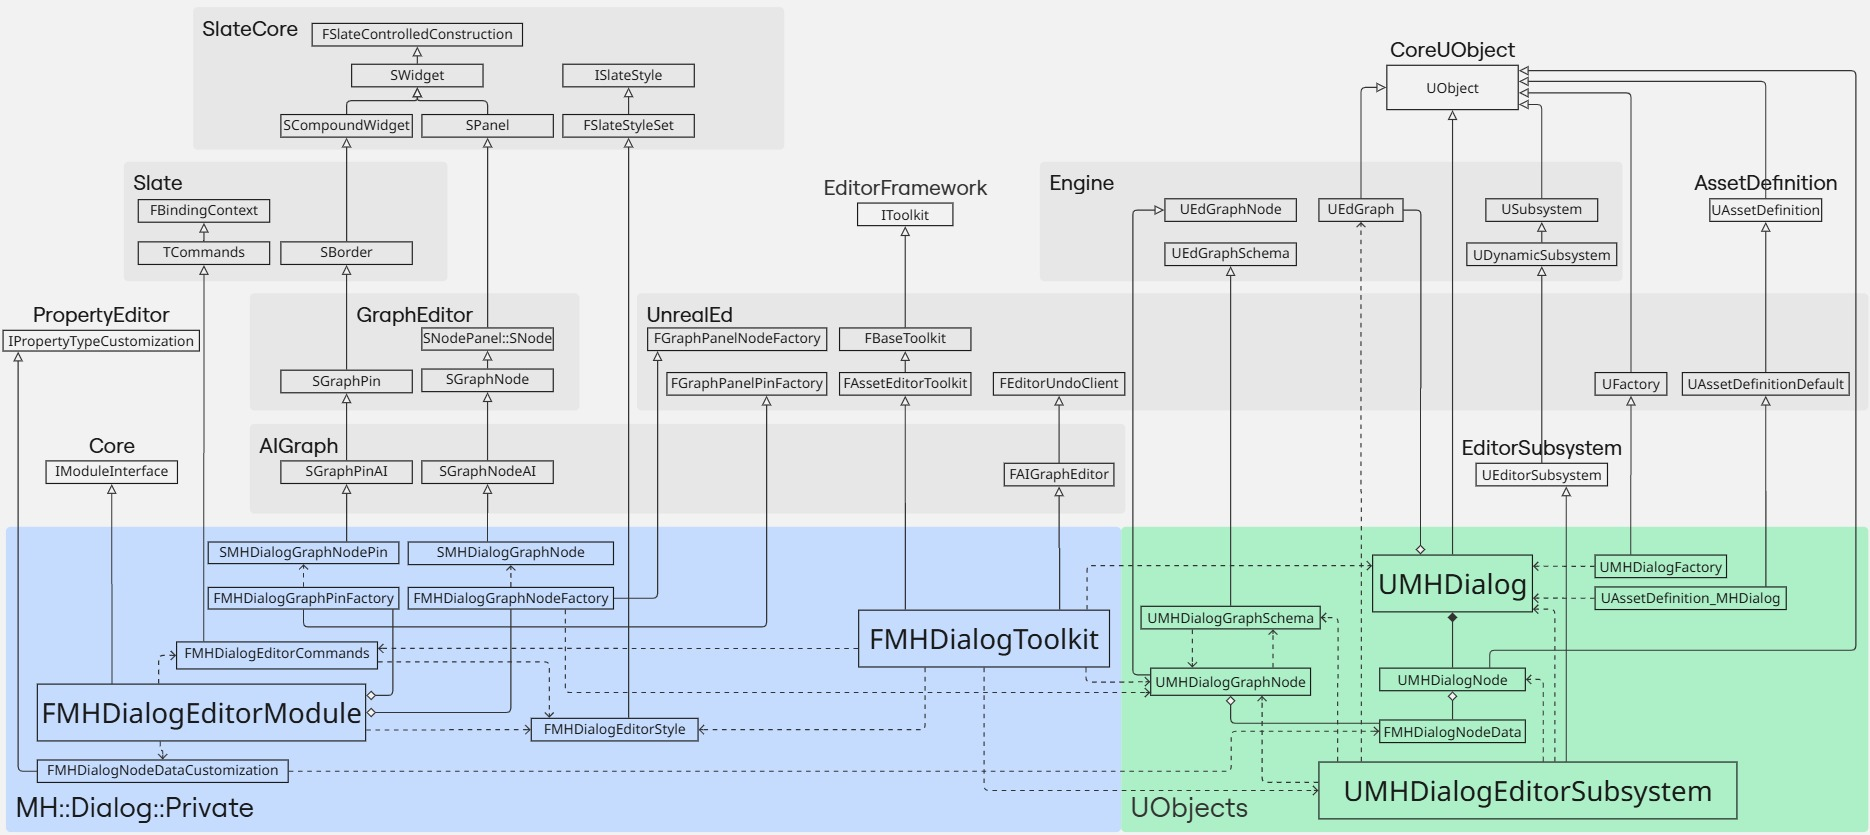
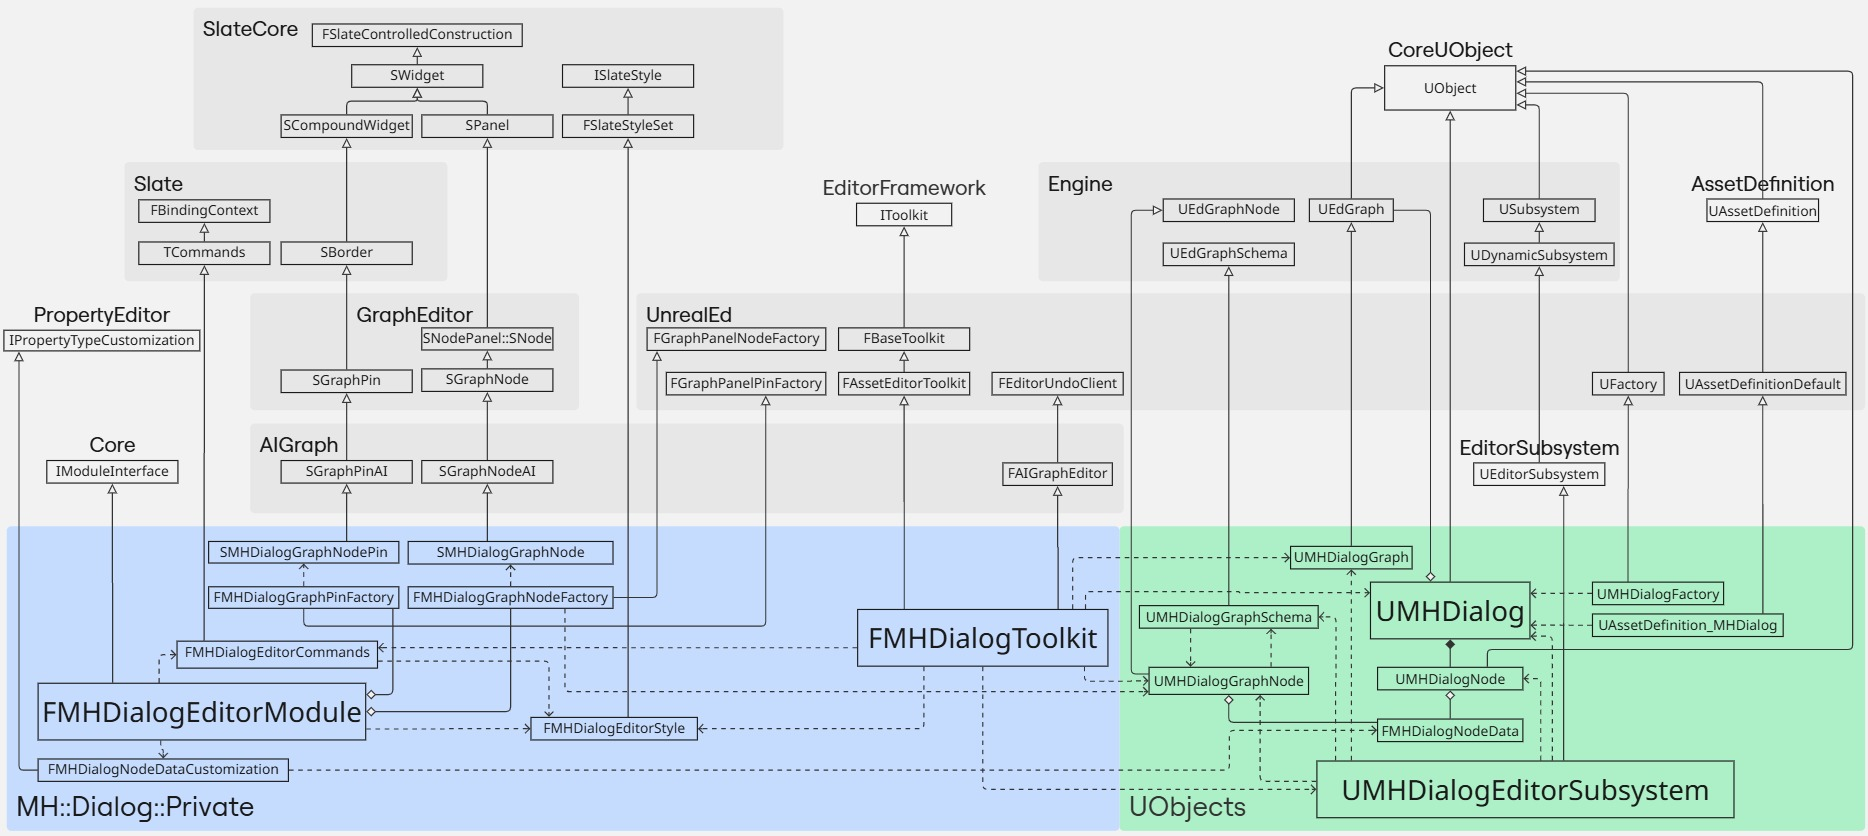
lock the graph for notifications when adding a new node

diff --git a/Source/MHDialogEditor/Private/Toolkit/MHDialogToolkit.cpp b/Source/MHDialogEditor/Private/Toolkit/MHDialogToolkit.cpp
@@ -2,6 +2,7 @@
 
 #include "Toolkit/MHDialogToolkit.h"
 
+#include "Graph/MHDialogGraph.h"
 #include "Graph/MHDialogGraphNode.h"
 #include "MHDialog.h"
 #include "MHDialogEditorColors.h"
@@ -43,13 +44,14 @@ void FMHDialogToolkit::InitDialogEditor(const EToolkitMode::Type Mode,
 										const TSharedPtr<class IToolkitHost>& InitToolkitHost,
 										UMHDialog* Dialog)
 {
+	check(IsValid(Dialog));
 	DialogAsset = Dialog;
-	check(IsValid(DialogAsset));
 
 	GEditor->GetEditorSubsystem<UMHDialogEditorSubsystem>()->InitAsset(DialogAsset);
+	DialogGraph			 = CastChecked<UMHDialogGraph>(DialogAsset->Graph);
 
 	auto Delegate		 = FOnGraphChanged::FDelegate::CreateSP(this, &FMHDialogToolkit::OnGraphUpdated);
-	OnGraphUpdatedHandle = DialogAsset->Graph->AddOnGraphChangedHandler(MoveTemp(Delegate));
+	OnGraphUpdatedHandle = DialogGraph->AddOnGraphChangedHandler(MoveTemp(Delegate));
 
 	CreateWidgets();
 	RegisterToolbar();
@@ -67,7 +69,7 @@ void FMHDialogToolkit::InitDialogEditor(const EToolkitMode::Type Mode,
 
 void FMHDialogToolkit::OnClose()
 {
-	DialogAsset->Graph->RemoveOnGraphChangedHandler(OnGraphUpdatedHandle);
+	DialogGraph->RemoveOnGraphChangedHandler(OnGraphUpdatedHandle);
 }
 
 void FMHDialogToolkit::RegisterTabSpawners(const TSharedRef<FTabManager>& InTabManager)
@@ -201,7 +203,7 @@ TSharedRef<SDockTab> FMHDialogToolkit::SpawnTab_Graph(const FSpawnTabArgs& Args)
 			.AdditionalCommands(GraphEditorCommands)
 			.Appearance(AppearanceInfo)
 			.GraphEvents(Events)
-			.GraphToEdit(DialogAsset->Graph)
+			.GraphToEdit(DialogGraph)
 		];
 	// clang-format on
 }
@@ -246,12 +248,15 @@ void FMHDialogToolkit::OnSelectedNodesChanged(const FGraphPanelSelectionSet& New
 
 void FMHDialogToolkit::OnGraphUpdated(const FEdGraphEditAction&)
 {
-	GEditor->GetEditorSubsystem<UMHDialogEditorSubsystem>()->UpdateAsset(DialogAsset);
+	if (!DialogGraph->IsLocked())
+	{
+		GEditor->GetEditorSubsystem<UMHDialogEditorSubsystem>()->UpdateAsset(DialogAsset);
+	}
 }
 
 void FMHDialogToolkit::OnFinishedChangingDetails(const FPropertyChangedEvent& Event)
 {
-	DialogAsset->Graph->NotifyGraphChanged();
+	DialogGraph->NotifyGraphChanged();
 }
 
 void FMHDialogToolkit::OnNodeTextCommited(const FText& Text, ETextCommit::Type Type, UEdGraphNode* Node)

diff --git a/Source/MHDialogEditor/Private/Graph/MHDialogGraphSchema.cpp b/Source/MHDialogEditor/Private/Graph/MHDialogGraphSchema.cpp
@@ -5,6 +5,7 @@
 #include "AIGraphConnectionDrawingPolicy.h"
 #include "AIGraphSchema.h"
 #include "Framework/Commands/GenericCommands.h"
+#include "Graph/MHDialogGraph.h"
 #include "Graph/MHDialogGraphNode.h"
 #include "GraphEditorActions.h"
 
@@ -94,9 +95,12 @@ UEdGraphNode* FMHDialogGraphSchemaAction_NewNode::PerformAction(UEdGraph* Parent
 																const FVector2f& Location,
 																bool bSelectNewNode)
 {
-	FGraphNodeCreator<UMHDialogGraphNode> NodeCreator(*ParentGraph);
+	UMHDialogGraph* DialogGraph = CastChecked<UMHDialogGraph>(ParentGraph);
+	DialogGraph->LockUpdates();
+
+	FGraphNodeCreator<UMHDialogGraphNode> NodeCreator(*DialogGraph);
 	const FScopedTransaction Transaction(LOCTEXT("NewNode", "Dialog Editor: New Node"));
-	ParentGraph->Modify();
+	DialogGraph->Modify();
 
 	UMHDialogGraphNode* Node = NodeCreator.CreateNode(/*bCreatedByUser*/ true);
 	Node->SetPosition(Location);
@@ -107,9 +111,10 @@ UEdGraphNode* FMHDialogGraphSchemaAction_NewNode::PerformAction(UEdGraph* Parent
 	{
 		FromPin->Modify();
 		Node->AutowireNewNode(FromPin);
-		ParentGraph->NotifyGraphChanged();
+		DialogGraph->NotifyGraphChanged();
 	}
 
+	DialogGraph->UnlockUpdates();
 	return Node;
 }
 

diff --git a/Source/MHDialogEditor/Private/MHDialogEditorSubsystem.cpp b/Source/MHDialogEditor/Private/MHDialogEditorSubsystem.cpp
@@ -2,7 +2,7 @@
 
 #include "MHDialogEditorSubsystem.h"
 
-#include "EdGraph/EdGraph.h"
+#include "Graph/MHDialogGraph.h"
 #include "Graph/MHDialogGraphNode.h"
 #include "Graph/MHDialogGraphSchema.h"
 #include "Kismet2/BlueprintEditorUtils.h"
@@ -14,10 +14,11 @@ void UMHDialogEditorSubsystem::InitAsset(UMHDialog* Asset) const
 {
 	if (!IsValid(Asset->Graph))
 	{
-		Asset->Graph = FBlueprintEditorUtils::CreateNewGraph(Asset,	 //
-															 NAME_None,
-															 UEdGraph::StaticClass(),
-															 UMHDialogGraphSchema::StaticClass());
+		UEdGraph* Graph = FBlueprintEditorUtils::CreateNewGraph(Asset,	//
+																NAME_None,
+																UMHDialogGraph::StaticClass(),
+																UMHDialogGraphSchema::StaticClass());
+		Asset->Graph	= Cast<UMHDialogGraph>(Graph);
 		Asset->Graph->GetSchema()->CreateDefaultNodesForGraph(*Asset->Graph);
 	}
 }

diff --git a/Source/MHDialogEditor/Private/Toolkit/MHDialogToolkit.h b/Source/MHDialogEditor/Private/Toolkit/MHDialogToolkit.h
@@ -9,6 +9,7 @@ class UMHDialog;
 class IDetailsView;
 class IToolkitHost;
 class SGraphEditor;
+class UMHDialogGraph;
 
 namespace MH::Dialog::Private
 {
@@ -38,6 +39,7 @@ class FMHDialogToolkit final : public FAssetEditorToolkit, public FAIGraphEditor
 	static const FName GraphTabId;
 
 	TObjectPtr<UMHDialog> DialogAsset;
+	TObjectPtr<UMHDialogGraph> DialogGraph;
 
 	TSharedPtr<IDetailsView> DialogAssetDetailsView;
 	TSharedPtr<IDetailsView> DialogNodeDetailsView;

diff --git a/Source/MHDialogEditor/Private/Graph/MHDialogGraph.h b/Source/MHDialogEditor/Private/Graph/MHDialogGraph.h
@@ -1,0 +1,21 @@
+// created by MetalHeart
+
+#pragma once
+
+#include "EdGraph/EdGraph.h"
+
+#include "MHDialogGraph.generated.h"
+
+UCLASS()
+class UMHDialogGraph : public UEdGraph
+{
+	GENERATED_BODY()
+
+  public:
+	bool IsLocked() const;
+	void LockUpdates();
+	void UnlockUpdates();
+
+  private:
+	bool bLockUpdates = false;
+};

diff --git a/Source/MHDialogEditor/Private/Graph/MHDialogGraph.cpp b/Source/MHDialogEditor/Private/Graph/MHDialogGraph.cpp
@@ -1,0 +1,19 @@
+// created by MetalHeart
+
+#include "Graph/MHDialogGraph.h"
+
+bool UMHDialogGraph::IsLocked() const
+{
+	return bLockUpdates;
+}
+
+void UMHDialogGraph::LockUpdates()
+{
+	bLockUpdates = true;
+}
+
+void UMHDialogGraph::UnlockUpdates()
+{
+	bLockUpdates = false;
+	NotifyGraphChanged();
+}
